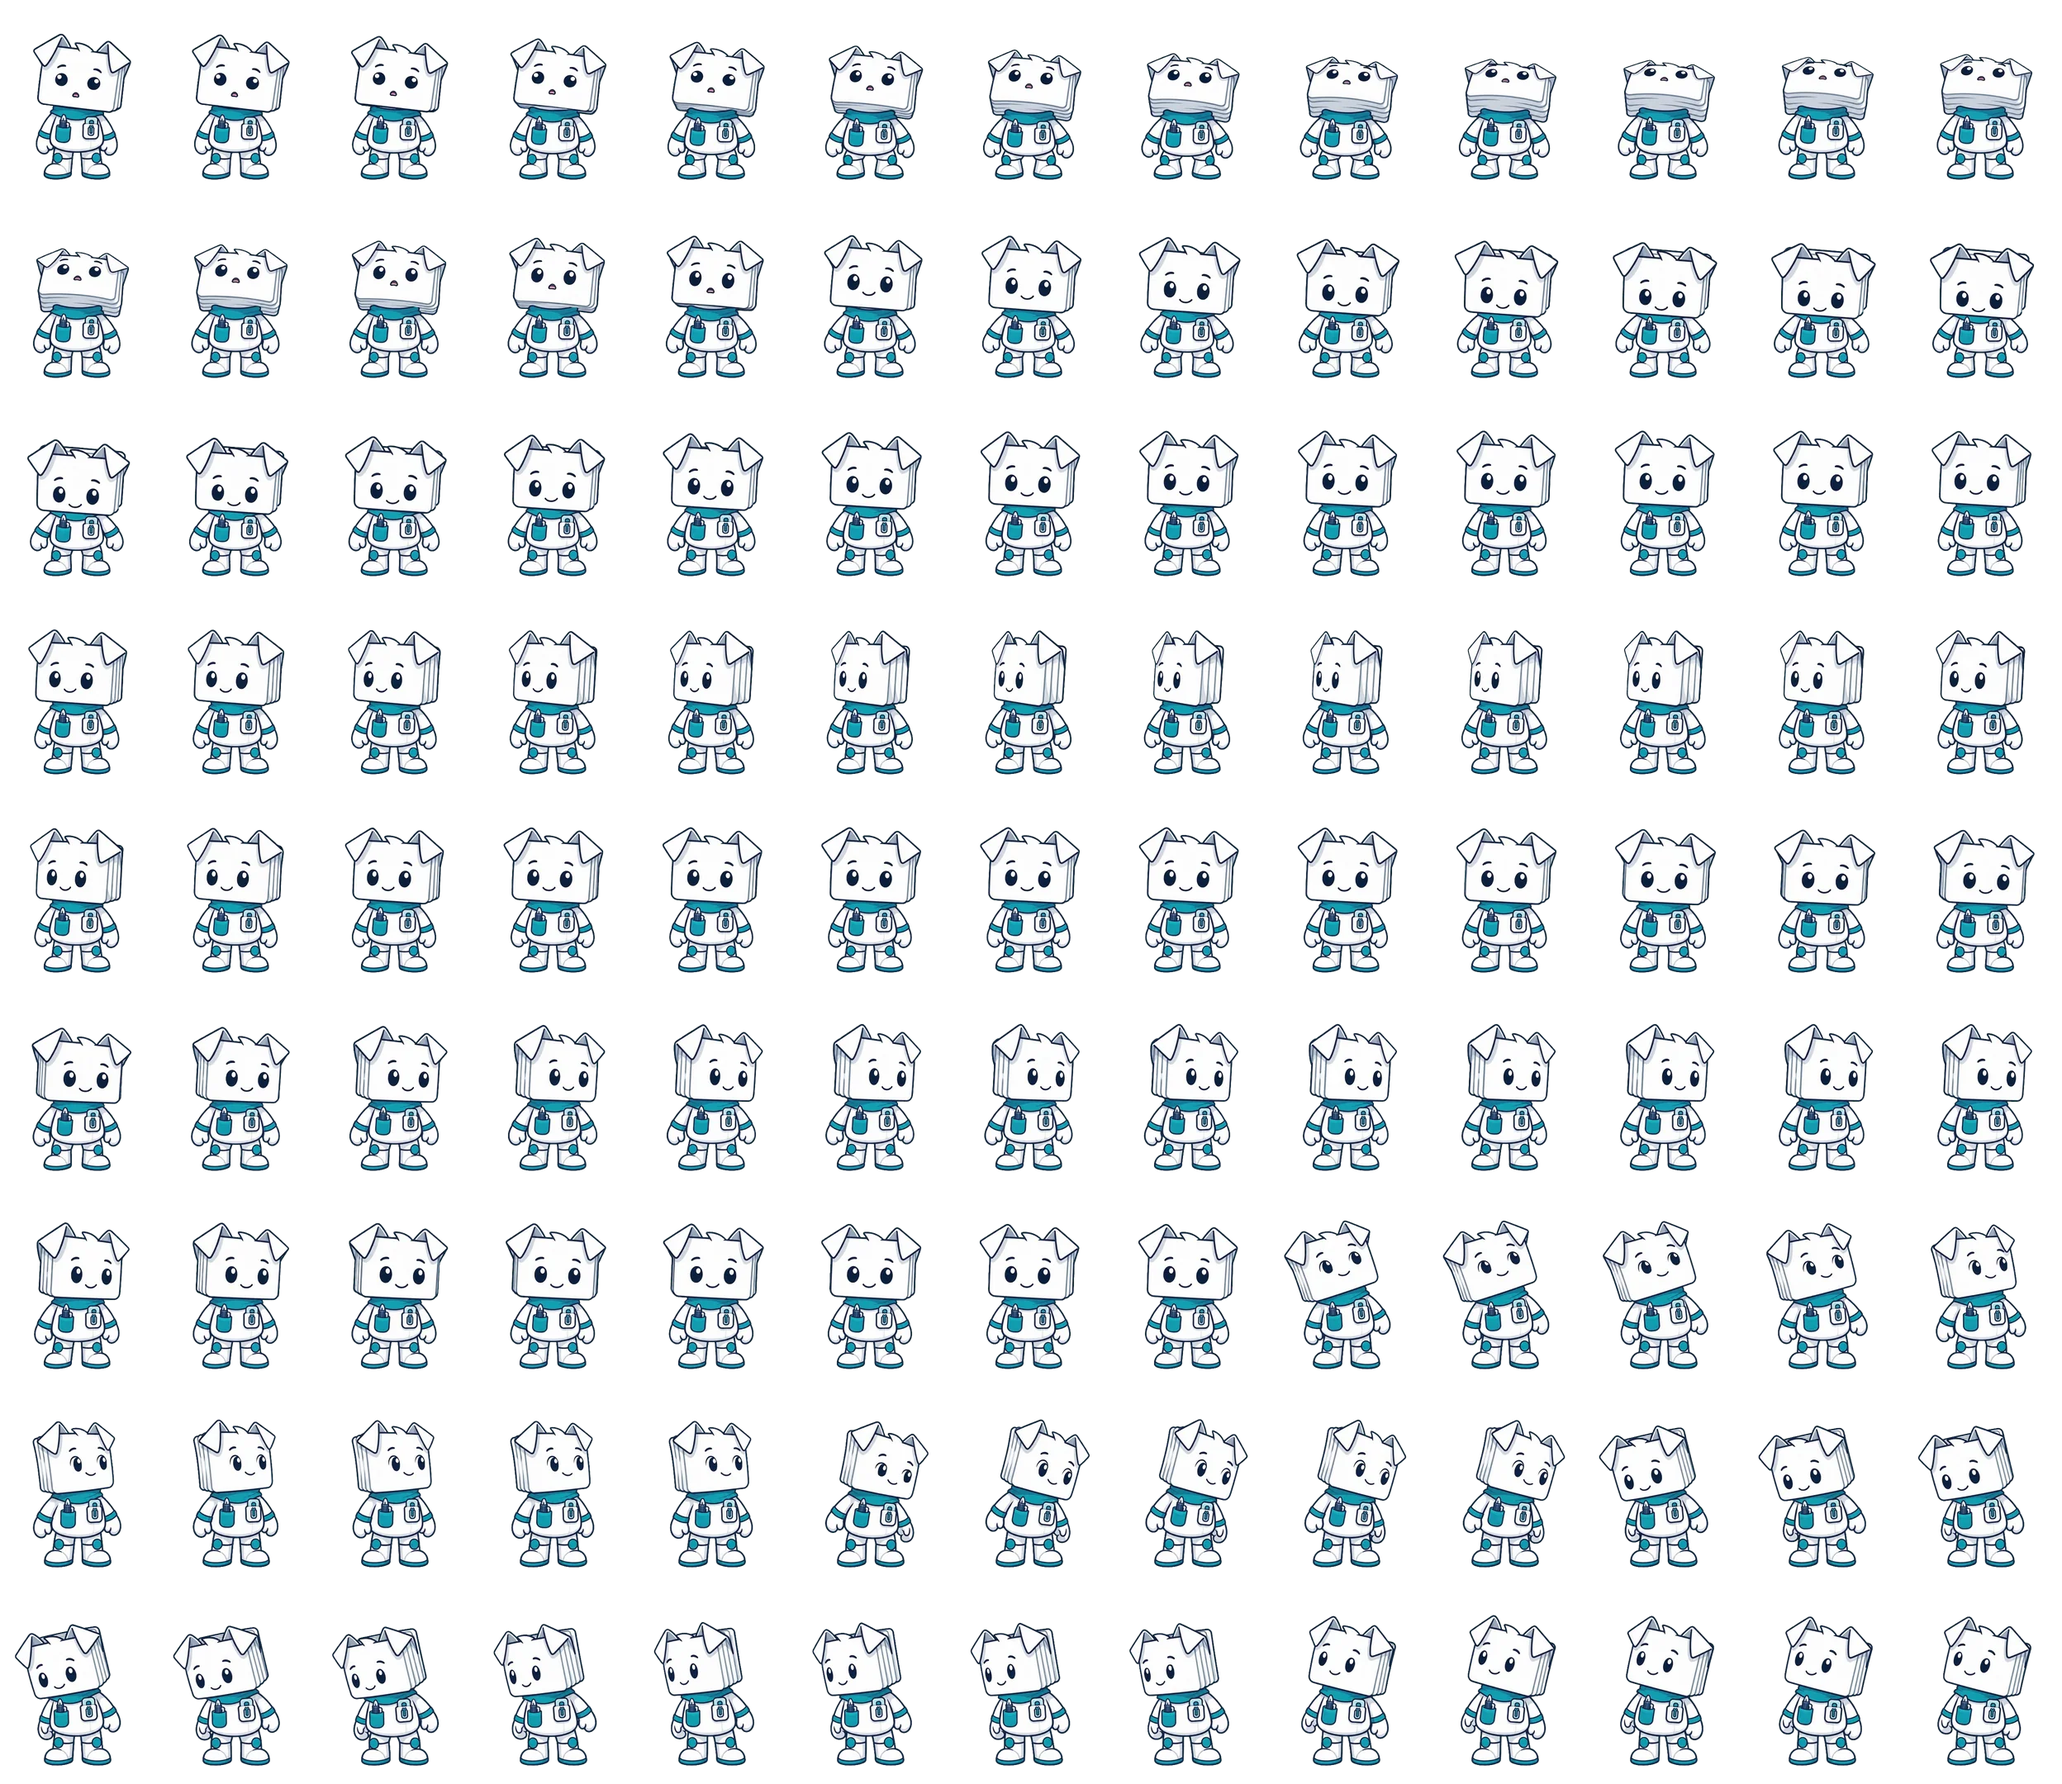
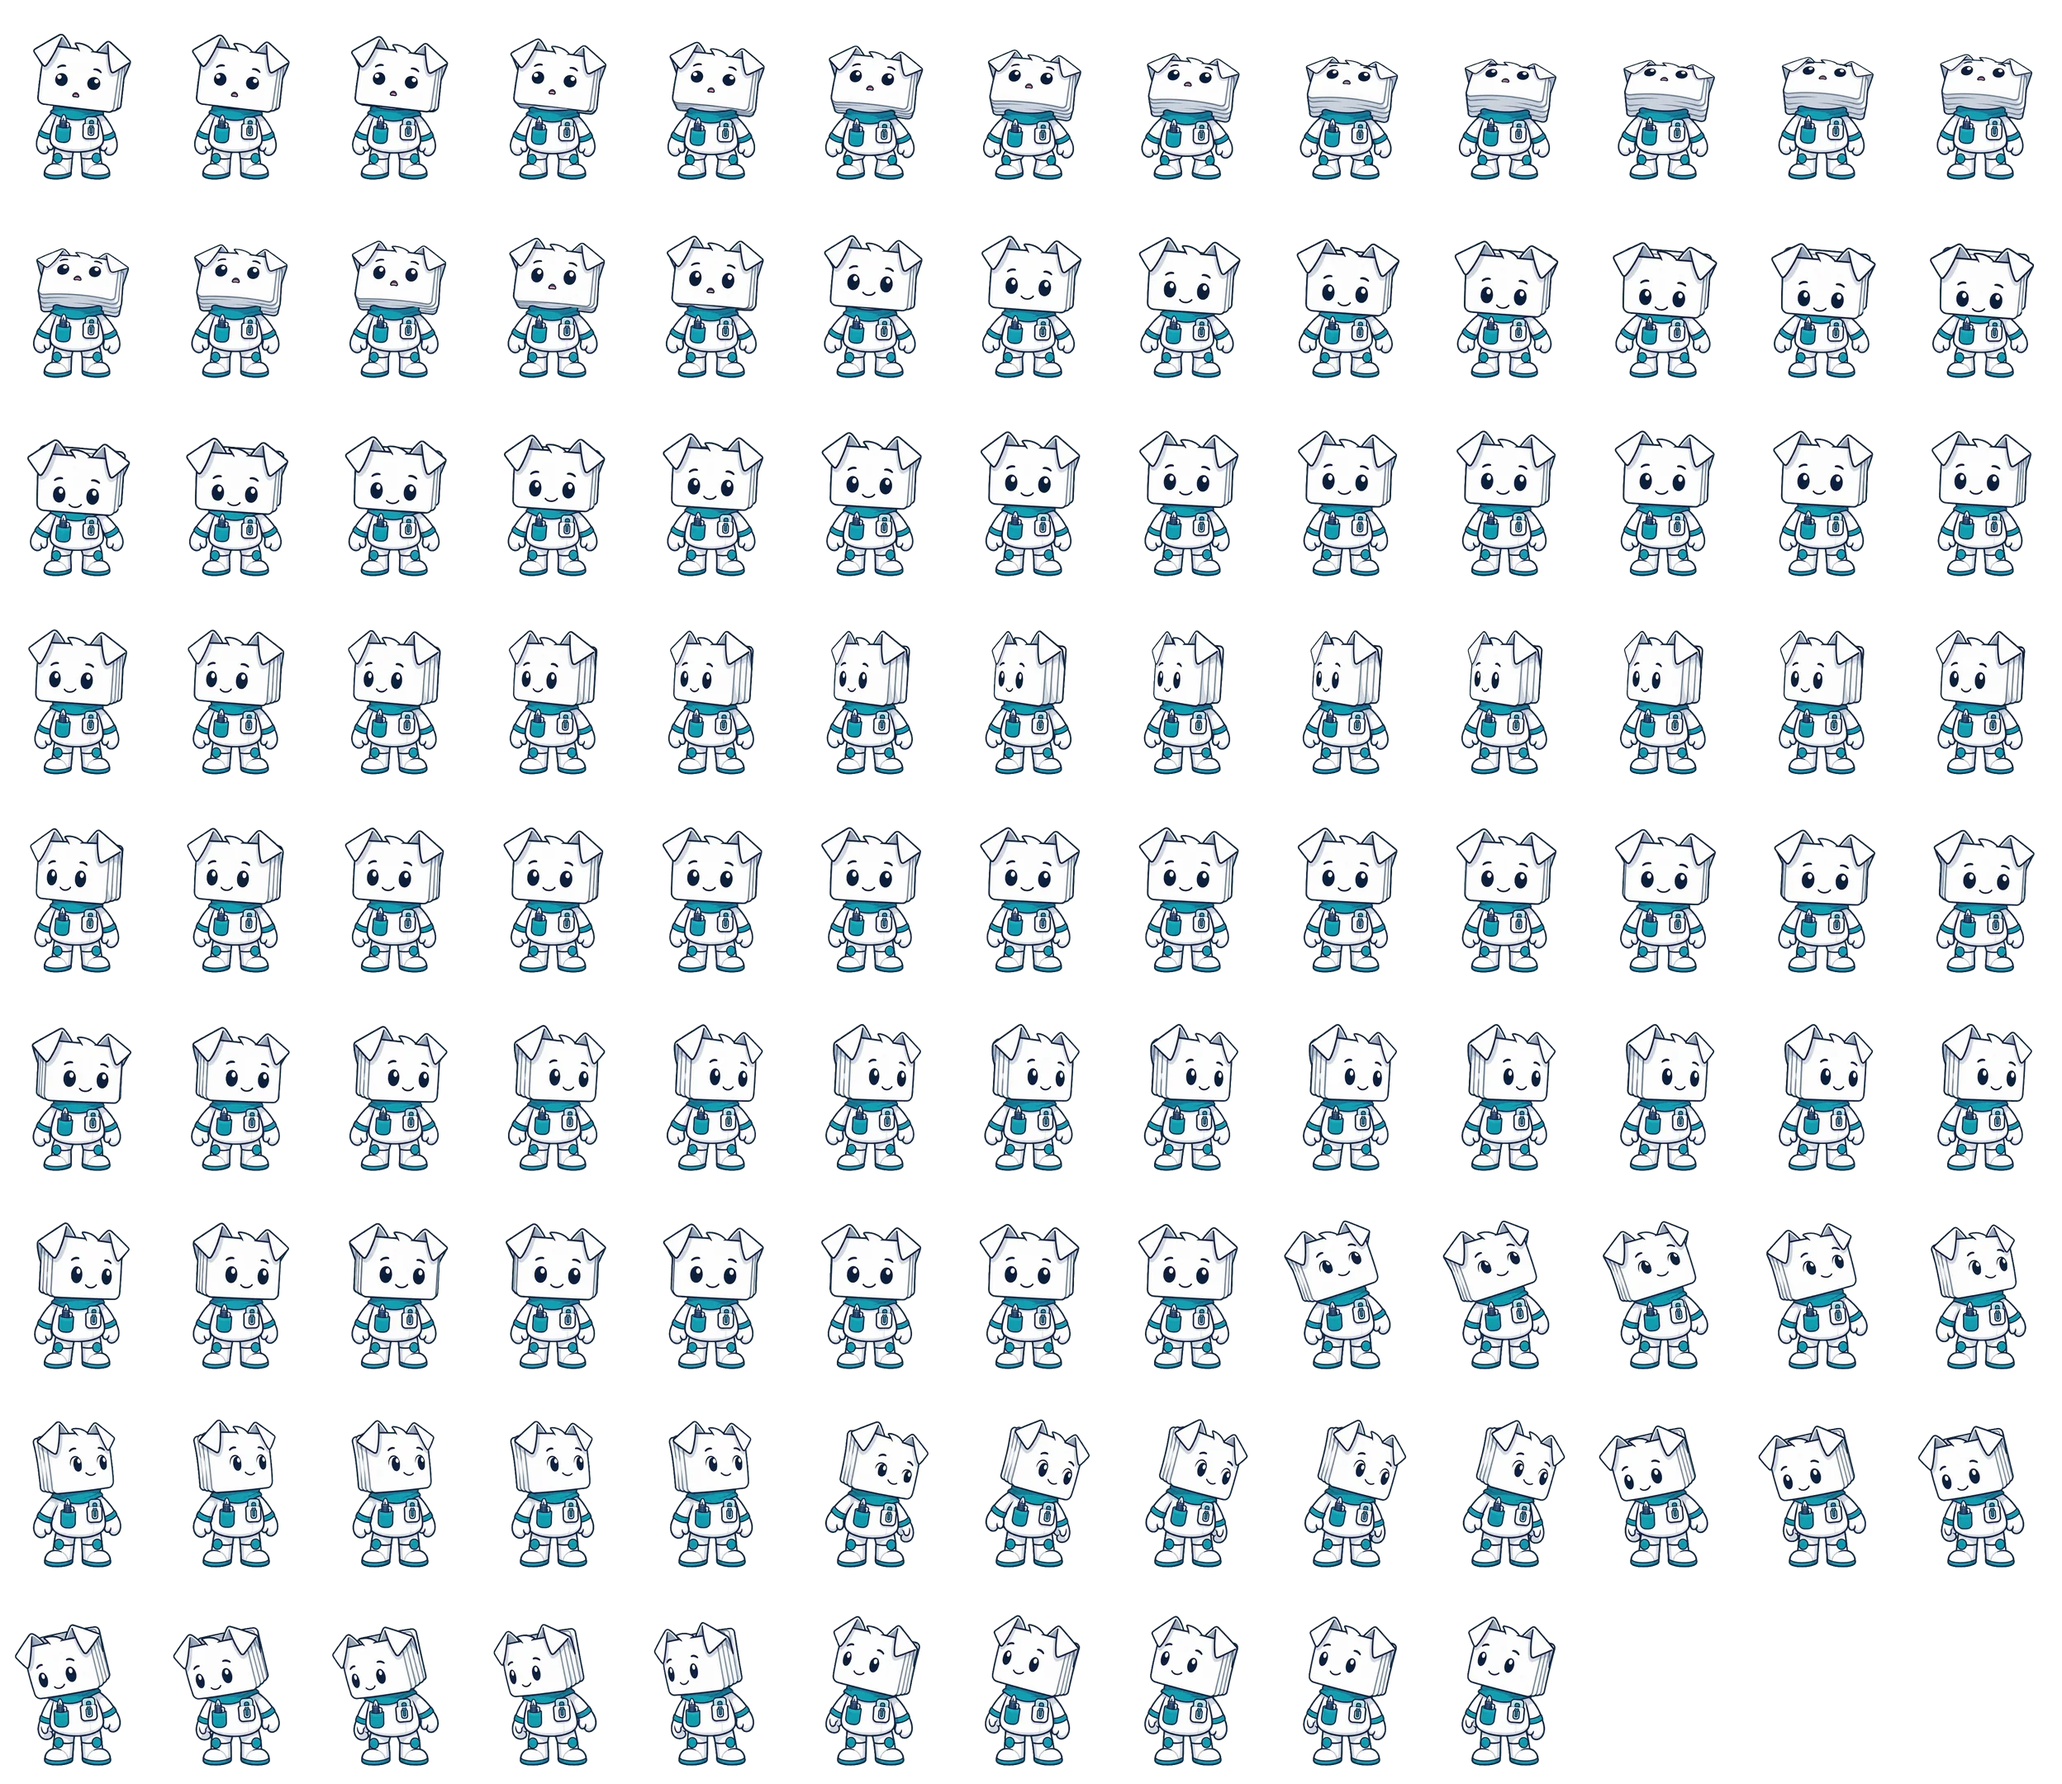
fix: remove left-up gaze pose jump and stabilize Windows fixtures

diff --git a/src/shared/composables/docletGazeDriver.test.js b/src/shared/composables/docletGazeDriver.test.js
@@ -27,6 +27,19 @@ function harness() {
   return { driver, drawn, advance, callbacks }
 }
 describe('Doclet 正面转向片段', () => {
+  it('左转左上不插入旧片中先向下倾斜再翻转的片段', () => {
+    const h = harness()
+    h.driver.aim('left')
+    h.advance(500)
+    const start = h.drawn.length
+    h.driver.aim('up-left')
+    h.advance(500)
+    const transition = h.drawn.slice(start)
+    expect(transition.at(-1)).toMatchObject({ frame: 1205, mix: 1 })
+    expect(transition.filter(({ frame }) => frame >= 1000).every(({ frame }) => frame >= 1195)).toBe(true)
+    expect(transition.some(({ frame, mix }) => frame >= 1195 && mix > 0 && mix < 1)).toBe(true)
+    expect(h.callbacks.size).toBe(0)
+  })
   it('拼接处短暂补间保持原定时长，停稳与中途取消后都不残留半透明帧', () => {
     const h = harness()
     h.driver.aim('up-left')

diff --git a/src-tauri/src/external/managed.rs b/src-tauri/src/external/managed.rs
@@ -1101,8 +1101,8 @@ mod tests {
         assert_eq!(find_in_directories("missing-tool", search()), None);
         #[cfg(windows)]
         assert_eq!(
-            find_in_directories("probe", search()),
-            Some(first.join(binary))
+            find_in_directories("probe", search()).map(|path| path.canonicalize().unwrap()),
+            Some(first.join(binary).canonicalize().unwrap())
         );
         #[cfg(unix)]
         {

diff --git a/designs/videos/README.md b/designs/videos/README.md
@@ -10,7 +10,7 @@
 
 应用通过原有 `DocletSprite` 接入，各模块随处理状态选择动作。首页和模块点击随机播放动作，避免连续重复。
 
-等待跟随使用“停留注意力”：鼠标在半径 40 px 的小区域停留 320 ms 才更新目标；小范围晃动取平均位置，快速扫过的地点丢弃。新素材 `0218881e` 提供正面起步与四向回正；旧环顾 `077e946b` 提供相邻四个斜向短段，组合成八方向。旧片先按脚底基线向上平移 32 原始像素、横向平移 -1 像素，再拼接；去除其中闭眼区间。斜向回正仅逆用该短段后接新片实际回正，不倒放道具、招呼等完整动作。每次从正面出发，换向快速回正（约 100 ms），再转向最新目标（约 220 ms）；不排队、不沿旧视频整圈走。新旧素材和旧片闭眼跳段的接缝仅补间 45 ms，采用预乘像素相加，避免普通透明度淡化导致白色角色闪暗；换向不再额外插入另一张正面图。停稳后停止绘制。同一帧不重复绘制。117 帧图集为 2496×2160，约 0.85 MiB，解码约 20.57 MiB，比原始图集减少约一半。离开窗口回正。
+等待跟随使用“停留注意力”：鼠标在半径 40 px 的小区域停留 320 ms 才更新目标；小范围晃动取平均位置，快速扫过的地点丢弃。新素材 `0218881e` 提供正面起步与四向回正；旧环顾 `077e946b` 提供相邻四个斜向短段，组合成八方向。旧片先按脚底基线向上平移 32 原始像素、横向平移 -1 像素，再拼接；去除其中闭眼区间。左上方向直接接入睁眼后的上倾片段，避免先下倾再突然翻转。斜向回正仅逆用该短段后接新片实际回正，不倒放道具、招呼等完整动作。每次从正面出发，换向快速回正（约 100 ms），再转向最新目标（约 220 ms）；不排队、不沿旧视频整圈走。新旧素材和旧片闭眼跳段的接缝仅补间 45 ms，采用预乘像素相加，避免普通透明度淡化导致白色角色闪暗；换向不再额外插入另一张正面图。停稳后停止绘制。同一帧不重复绘制。114 帧图集为 2496×2160，约 0.82 MiB，解码约 20.57 MiB，比原始图集减少约一半。离开窗口回正。
 完整环顾动画只供设计预览，保存在 `designs/assets/doclet-look-preview.webp`，不进入正式安装包。处理动作循环，招呼、庆祝和额外手势单次播放。页面不可见、滚出视口、组件停用或系统要求减少动态效果时切换静态图；素材失败回退原始精灵图。
 
 `http://127.0.0.1:1420/designs/doclet-video-preview.html` 可检查全部动作及深浅色背景。AI 源视频本身的造型变化和动作衔接仍会保留，不代表重新绘制或生成素材中没有的背面视角。
